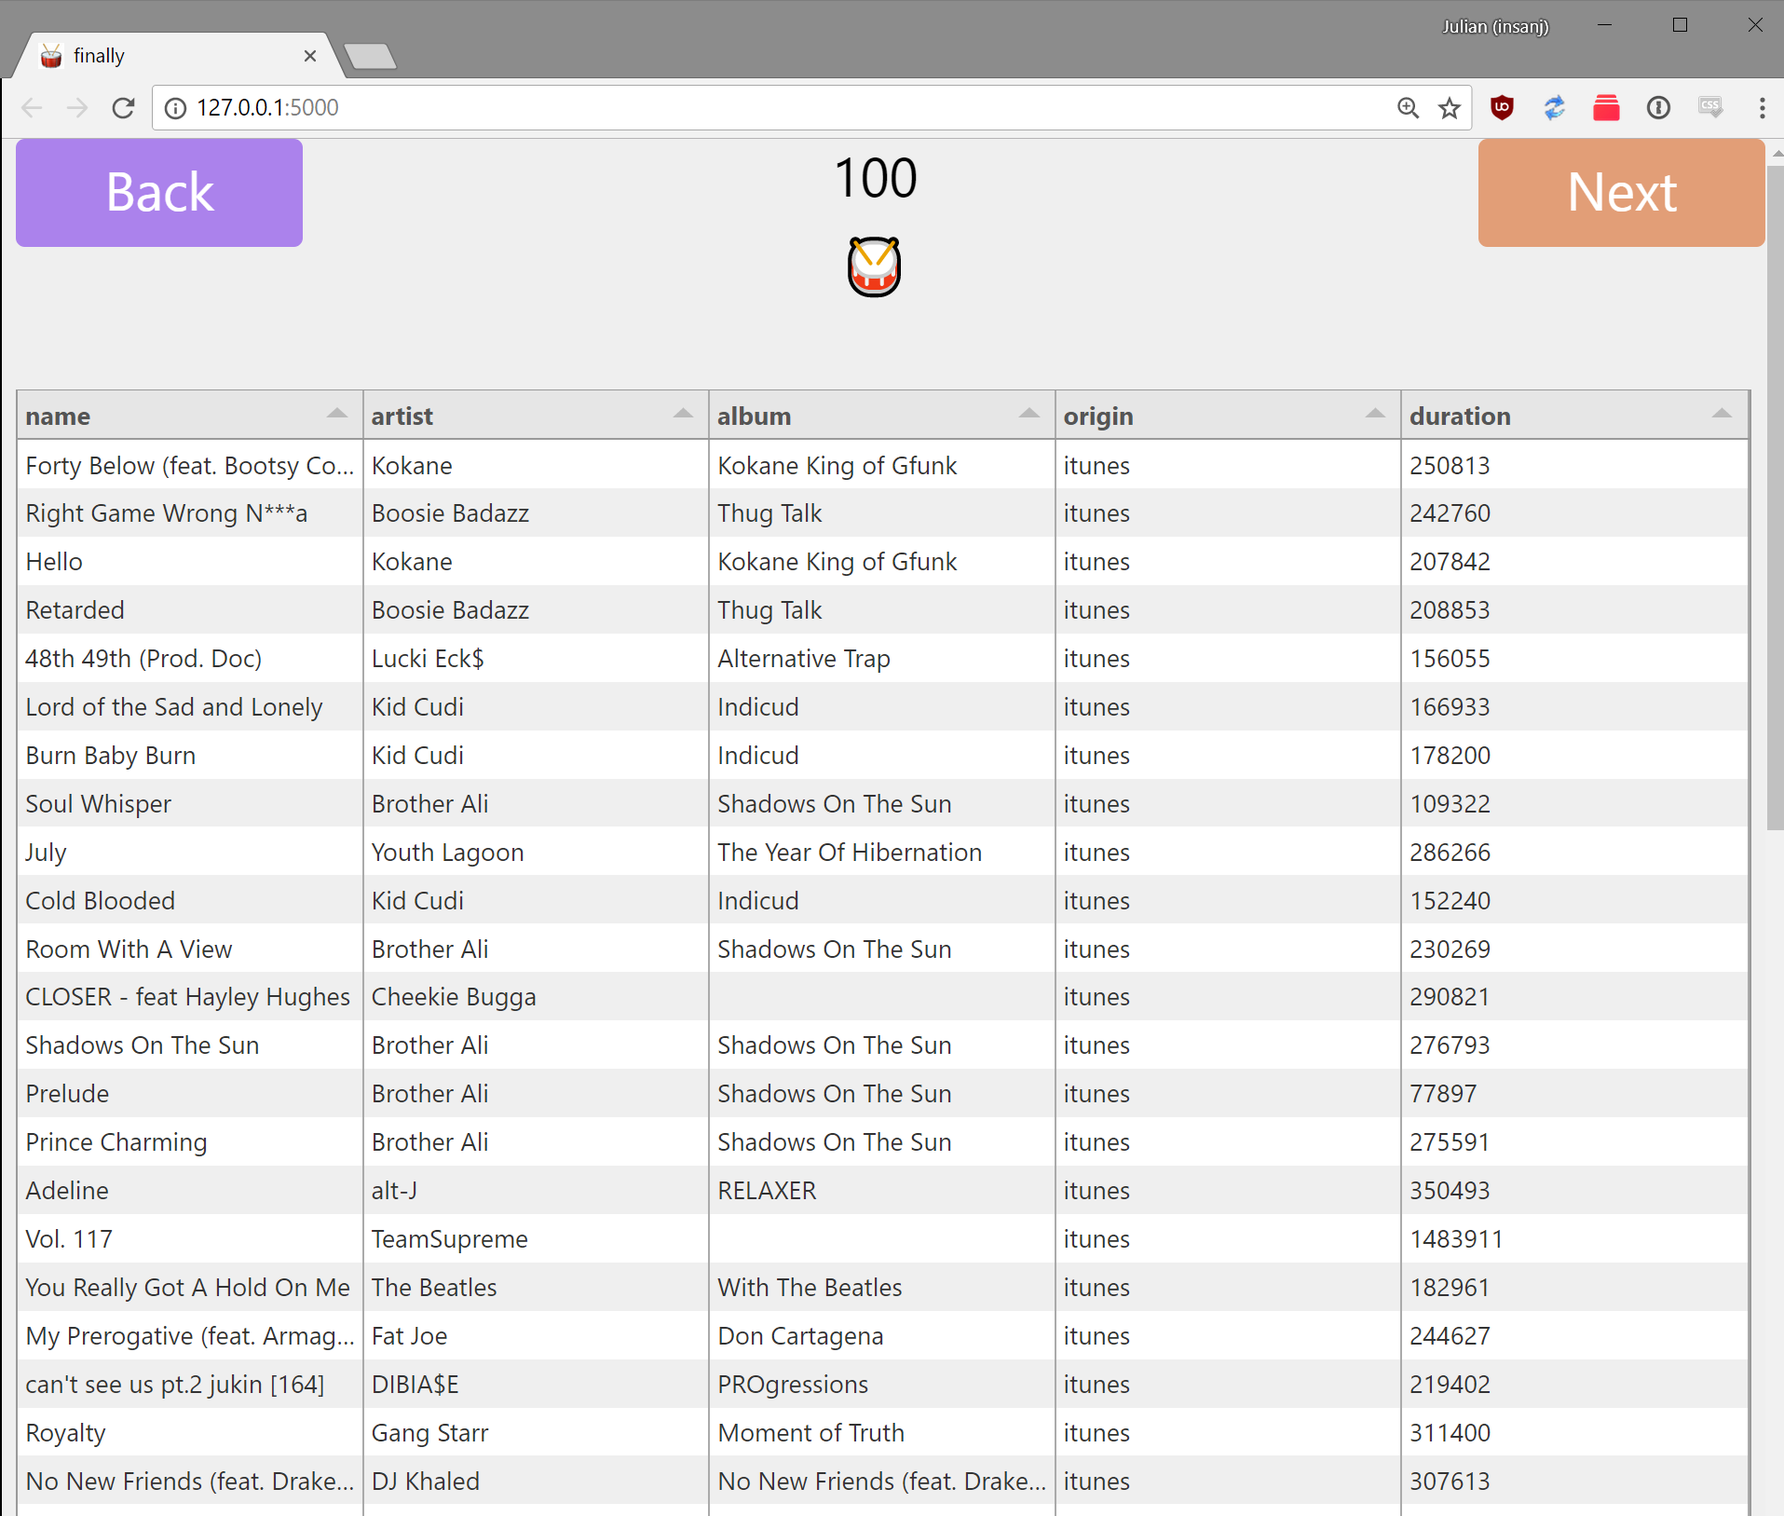
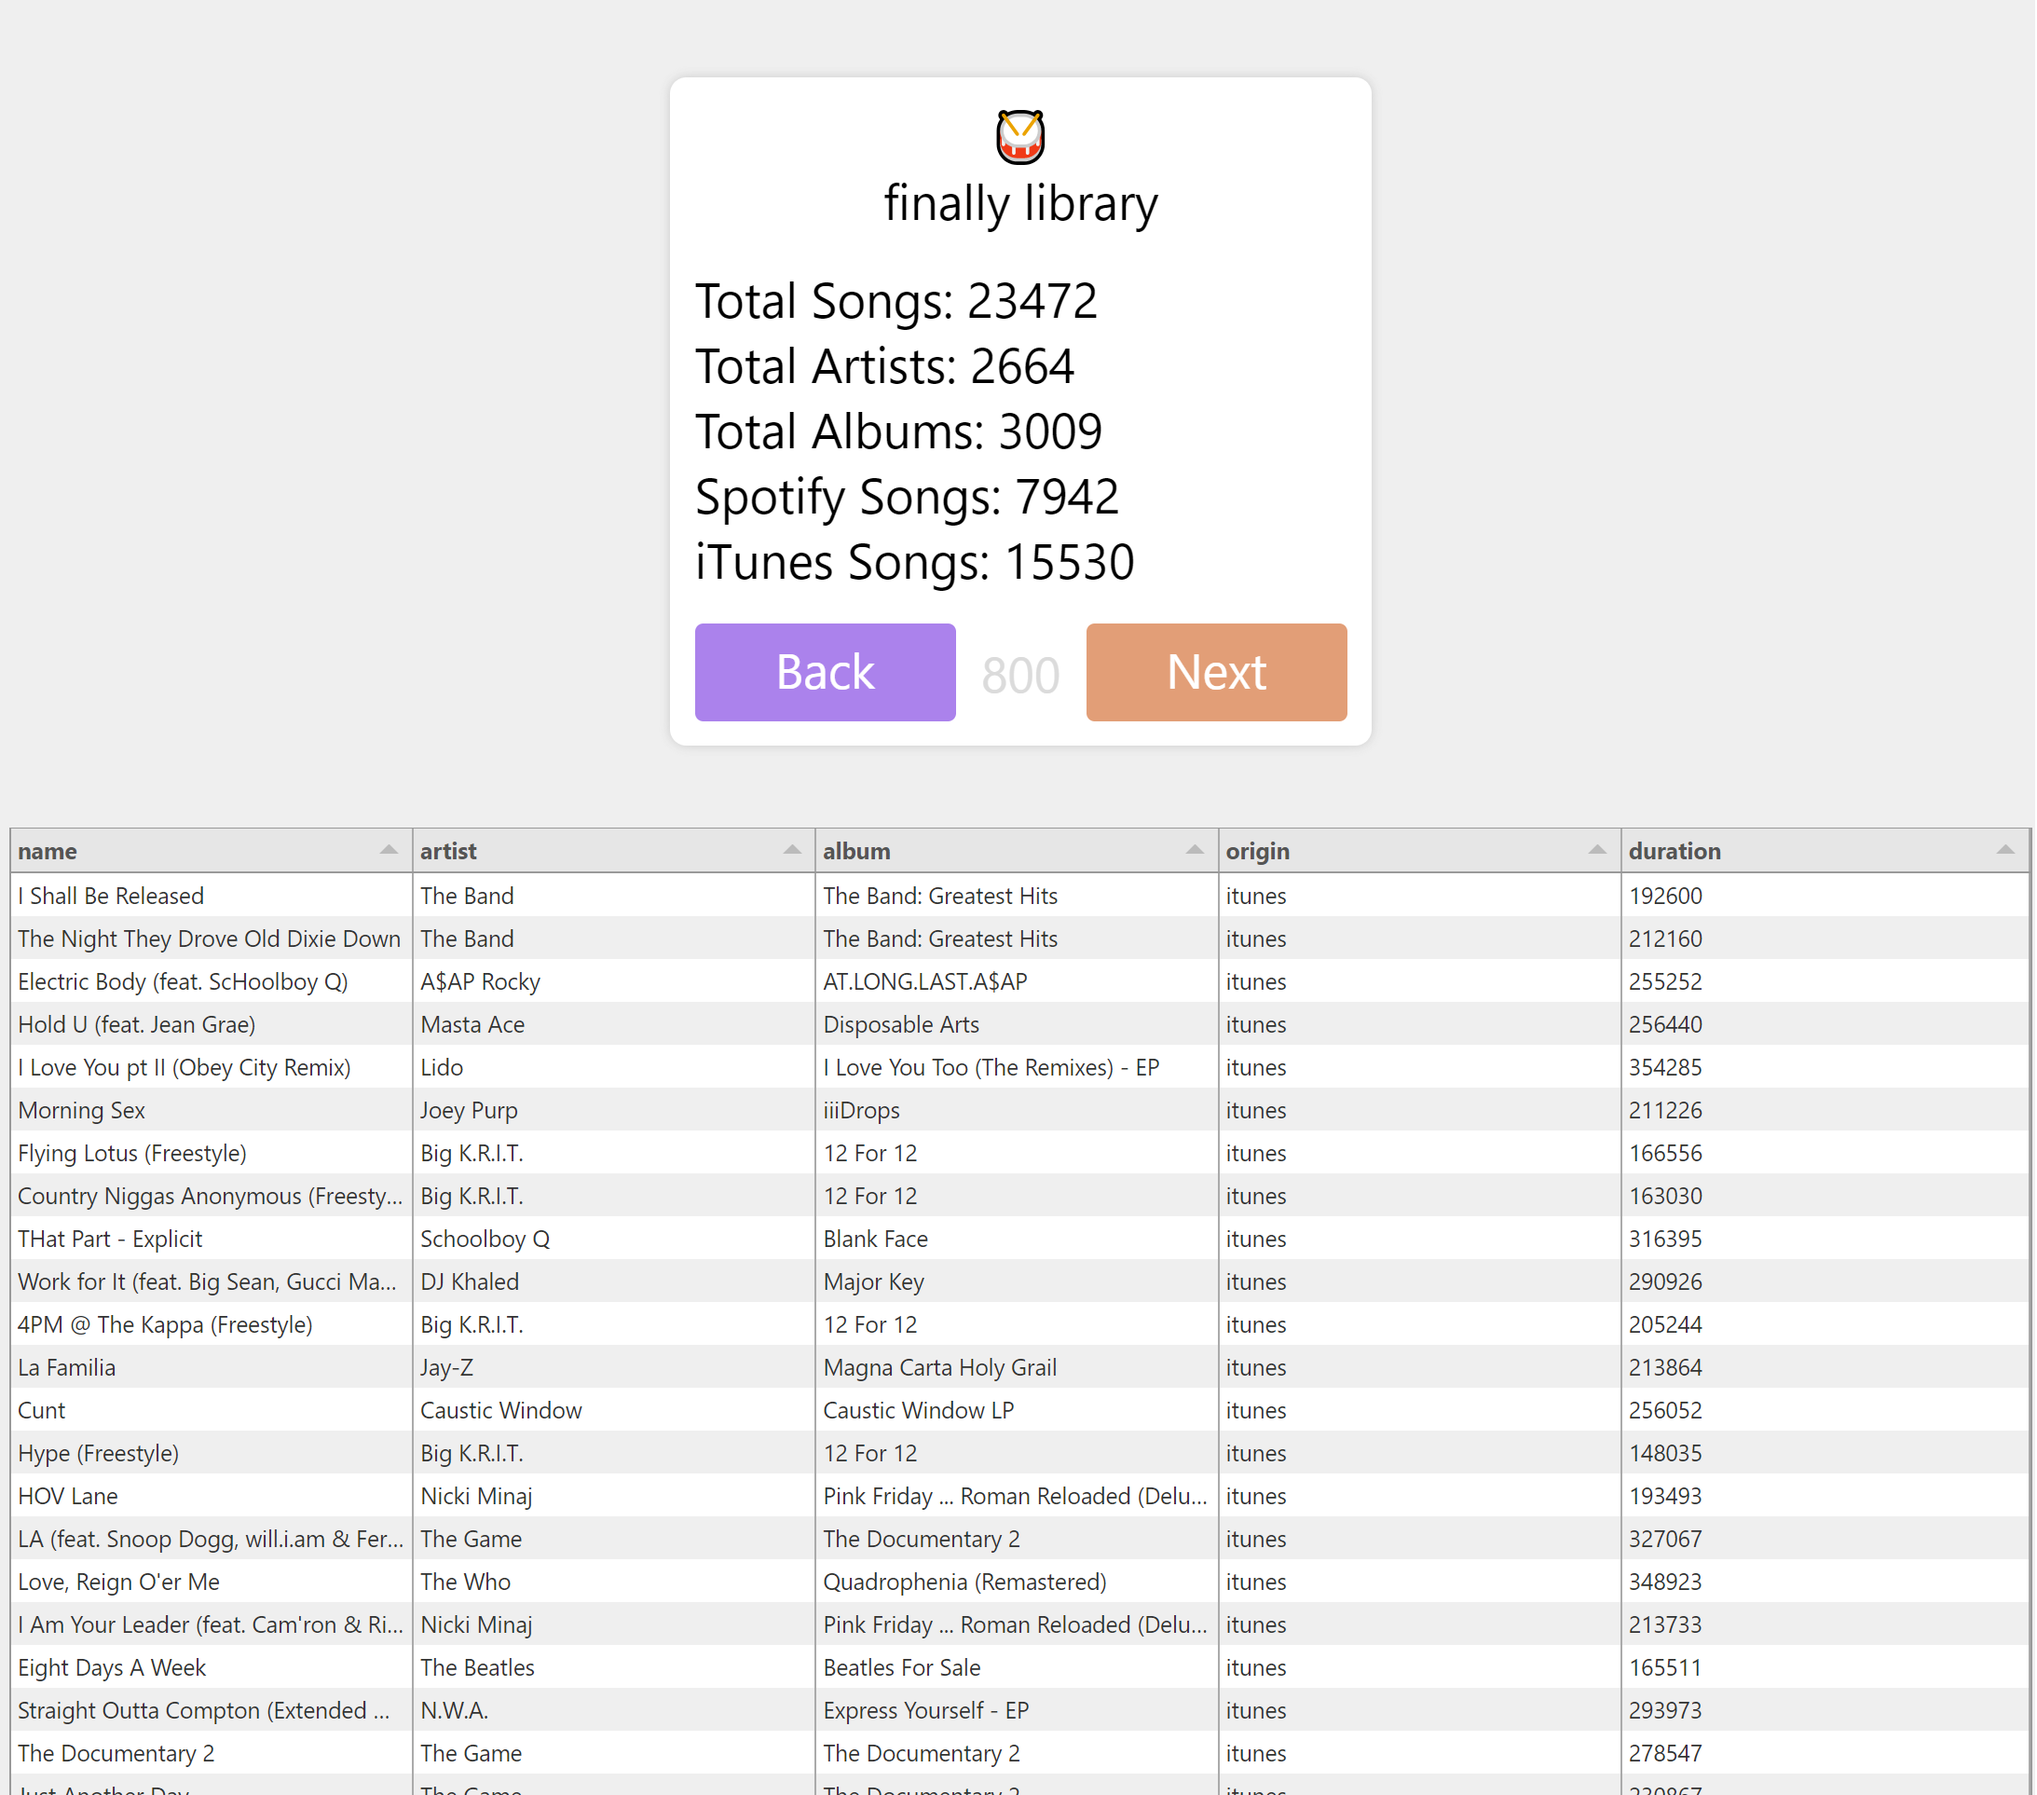
finally lib metadata header gen, use js map func refactor, cleanup

Changed region(s): [[0.0, 0.0, 1.0, 1.0], [0.0, 0.0615, 0.1849, 0.1844]]

diff --git a/finally/static/index.js b/finally/static/index.js
@@ -31,17 +31,22 @@ function loadFinally() {
 }
 
 function generateHeaderDivString() {
+	var headerButtonTray = '<div id="button-tray">';
+	headerButtonTray += '<div id="back-button">Back</div>';
+	headerButtonTray += '<div id="page-indicator"></div>';
+	headerButtonTray += '<div id="next-button">Next</div>';
+	headerButtonTray += "</div>";
+
 	var headerString = '<div id="header">';
-	headerString += '<div id="back-button">Back</div>';
-	headerString += '<div id="page-indicator"></div>';
-	headerString += '<div id="next-button">Next</div>';
+	headerString += "<div id='header-body'></div>";
+	headerString += headerButtonTray;
 	headerString += "</div>";
 	return headerString;
 }
 
 function renderFinally(data) {
     $("#loading").remove();
-    $("#alert").text("🥁");
+    $("#alert").text("");
 
 	var headerDivString = generateHeaderDivString();
     $("body").append(headerDivString);
@@ -49,18 +54,13 @@ function renderFinally(data) {
     finally_loadedSongs = generateTabulatorDataFromSongs(data);
     finally_currentIndex = 0;
     renderFinallySongs(finally_currentIndex, finally_defaultPageSize);
-    renderFinallyLibraryMetadata(finally_loadedSongs, "header");
+    renderFinallyLibraryMetadata(finally_loadedSongs, "header-body");
 }
 
 //
 
 function generateTabulatorDataFromSongs(songsData) {
-	var tabulatorSongs = [];
-	for (var i = 0; i < songsData.length; i++) {
-    	var tabulatorConvertedSong = generateTabulatorDictFromSong(songsData[i], i);
-    	tabulatorSongs.push(tabulatorConvertedSong);
-    }
-
+	var tabulatorSongs = songsData.map((v, i, a) => generateTabulatorDictFromSong(v, i));
 	return tabulatorSongs;
 }
 
@@ -81,6 +81,7 @@ function generateTabulatorDictFromSong(song, i) {
 function renderFinallyLibraryMetadata(metadataSongs, parentDivID) {
 	var generatedDivs = createFinallyLibraryMetadataDivs(metadataSongs);
 	var parentDivIDHash = "#"+parentDivID;
+	$(parentDivIDHash).append("<div id='masthead'>🥁<br/>finally library</div>");
 	for (var i = 0; i < generatedDivs.length; i++) {
 		var g = generatedDivs[i];
 		$(parentDivIDHash).append(g);
@@ -91,15 +92,23 @@ function createFinallyLibraryMetadataDivs(metadataSongs) {
 	var finallyTotalSongs = metadataSongs.length;
 	var totalSongsDiv = generateFinallyLibraryMetadataDiv({"id" : "total-songs"}, "Total Songs: " + finallyTotalSongs);
 
-	var finallyTotalArtists;
-	
-	var finallyTotalAlbums;
-	var finallyTotalDuration;
-	var finallyTotalSpotifySongs;
-	var finallyTotaliTunesSongs;
-	var finallyTotalSongs;
+	var finallyOnlyArtists = metadataSongs.map(a => a.artist);
+	var finallyTotalArtists = finallyOnlyArtists.filter((v, i, a) => a.indexOf(v) === i).length; 
+	var finallyTotalArtistsDiv = generateFinallyLibraryMetadataDiv({"id" : "total-artists"}, "Total Artists: " + finallyTotalArtists);
 
-	var generatedDivs = [totalSongsDiv];
+	var finallyOnlyAlbums = metadataSongs.map(a => a.album);
+	var finallyTotalAlbums = finallyOnlyAlbums.filter((v, i, a) => a.indexOf(v) === i).length; 
+	var finallyTotalAlbumsDiv = generateFinallyLibraryMetadataDiv({"id" : "total-albums"}, "Total Albums: " + finallyTotalAlbums);
+
+	var finallyTotalDuration;
+
+	var finallyTotalSpotifySongs = metadataSongs.filter(a => a.origin == "spotify").length;
+	var finallyTotalSpotifySongsDiv = generateFinallyLibraryMetadataDiv({"id" : "spotify-songs"}, "Spotify Songs: " + finallyTotalSpotifySongs);
+
+	var finallyTotaliTunesSongs = metadataSongs.filter(a => a.origin == "itunes").length;
+	var finallyTotaliTunesSongsDiv = generateFinallyLibraryMetadataDiv({"id" : "itunes-songs"}, "iTunes Songs: " + finallyTotaliTunesSongs);
+
+	var generatedDivs = [totalSongsDiv, finallyTotalArtistsDiv, finallyTotalAlbumsDiv, finallyTotalSpotifySongsDiv, finallyTotaliTunesSongsDiv];
 	return generatedDivs;
 }
 
@@ -120,9 +129,13 @@ function generateFinallyLibraryMetadataDiv(elementInfo, elementContents) {
 //
 
 function renderFinallySongs(beginIndex, pageSize) {
+	var bodyParentDivID = "finally-body";
+	var bodyParentDivIDHash = "#"+bodyParentDivID;
+	$("body").append("<div id='"+bodyParentDivID+"'></div>");
+
 	$("#page-indicator").text(beginIndex);
 	$("#songs-table").remove();
-    $("body").append('<div id="songs-table"></div>');
+    $(bodyParentDivIDHash).append('<div id="songs-table"></div>');
 
 	var slicedSongs = finally_loadedSongs.slice(beginIndex, pageSize);
     $("#songs-table").tabulator({

diff --git a/finally/static/index.css b/finally/static/index.css
@@ -20,9 +20,33 @@ body {
 	width: 99%;
 }
 
+/* Header */
+
+#header {
+	background-color:white;
+
+	display: clear;
+	margin: 0px auto 50px auto;
+	padding: 15px;
+
+	border-radius: 10px;
+	box-shadow: 0px 0px 10px #a3a3a37d;
+
+	width: 400px;
+}
+
+#masthead {
+	text-align: center;
+	margin-bottom: 20px;
+}
+
+#button-tray {
+	margin-top: 20px;
+	height: 60px;
+}
+
+
 #back-button {
-	top: 0px;
-	position: absolute;
 	background-color: #ab82ec;
 	color: white;
 	padding: 5px;
@@ -36,9 +60,6 @@ body {
 }
 
 #next-button {
-	top: 0px;
-	right: 0px;
-	position: absolute;
 	background-color: #e29e77;
 	color: white;
 	padding: 5px;
@@ -52,10 +73,10 @@ body {
 }
 
 #page-indicator {
-	left: 0px;
-	width: 99%;
-	text-align: center;
-	color: black;
 	position: absolute;
-	top: 0px;
+	width: 400px;
+	text-align: center;
+	color: #dbdbdb;
+	margin-top: 10px;
+    pointer-events: none;
 }

diff --git a/finally/static/finally.js b/finally/static/finally.js
@@ -99,7 +99,6 @@ class FinallyFrontend {
 	        var originId = songParsedJSON.origin.identifier;
 		    var metadata = songParsedJSON.finallyMetadata;
 		    var song = new FinallySong(originId, metadata.name, metadata.artist, metadata.album, metadata.duration);
-
 		    songs.push(song);
 	    }
 
@@ -108,15 +107,8 @@ class FinallyFrontend {
 	}
 
 	generateDivsFromSongs(songs) {
-	    // $(this.alertDivSelector).text("🥁 Sorting " + reasonable.length + " songs...");
-	    // var sortedSongs = self.sortedSongList(songs);
-
 	    $(this.alertDivSelector).text("🥁 Generating graphics, then we're done");
-	    var generatedDivs = [];
-	    for (var i = 0; i < songs.length; i++) {
-	    	generatedDivs.push(songs[i].generateDiv());
-	    }
-
+	    var generatedDivs = songs.map(s => s.generateDiv());
 	    return generatedDivs;
 	}
 
